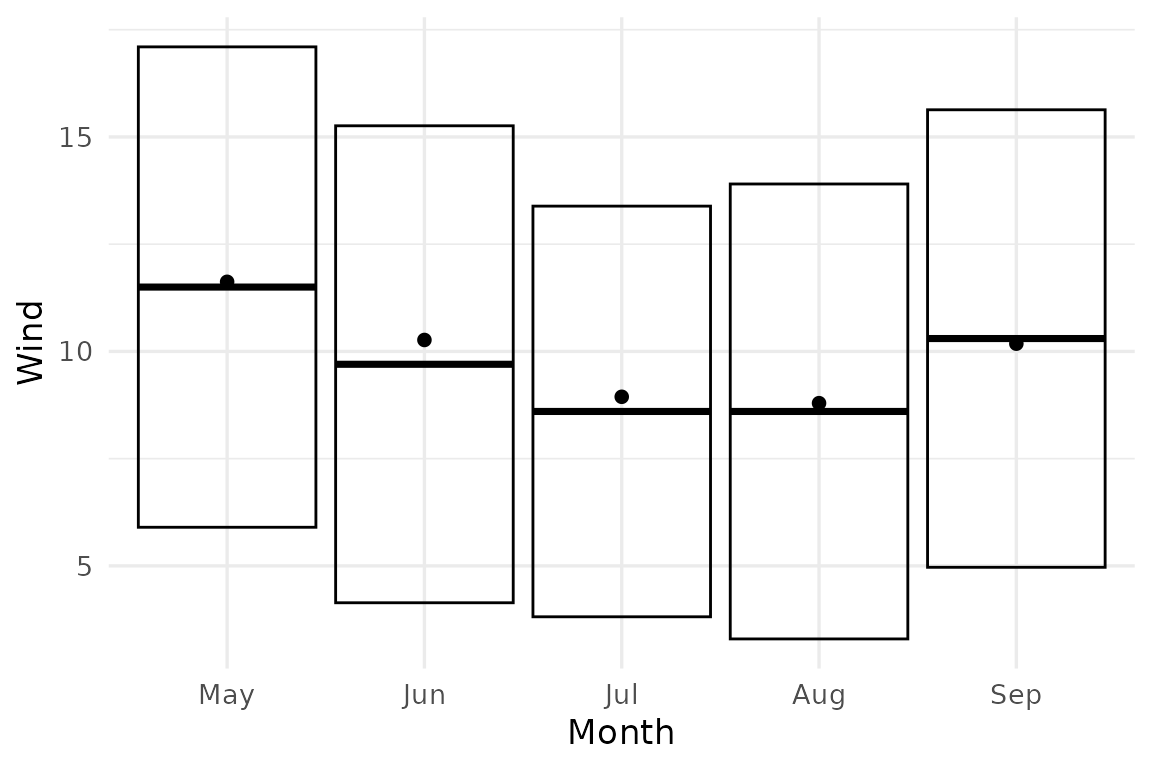
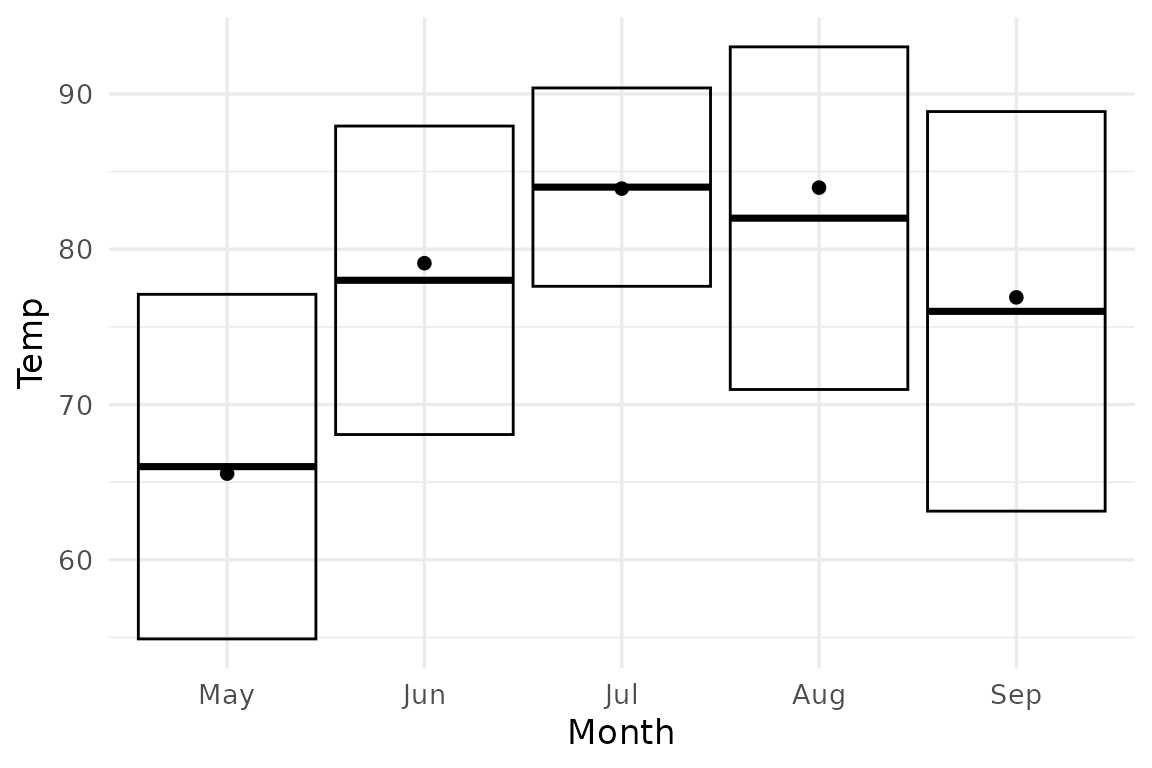
Deploying to gh-pages from @ iamYannC/ggerror@91dc286999c0aad0b7f42e428c635d0acdb28276 🚀

diff --git a/articles/use-cases.html b/articles/use-cases.html
@@ -242,7 +242,7 @@ example, to multiply the error by 2, you’d write
 <details><summary>
 Passing <code>scale_by = 2</code> to <code>stat_error</code>
 </summary><div class="sourceCode" id="cb8"><pre class="downlit sourceCode r">
-<code class="sourceCode R"><span><span class="fu"><a href="https://ggplot2.tidyverse.org/reference/ggplot.html" class="external-link">ggplot</a></span><span class="op">(</span><span class="va">airq</span>, <span class="fu"><a href="https://ggplot2.tidyverse.org/reference/aes.html" class="external-link">aes</a></span><span class="op">(</span><span class="va">Month</span>, <span class="va">Wind</span><span class="op">)</span><span class="op">)</span> <span class="op">+</span></span>
+<code class="sourceCode R"><span><span class="fu"><a href="https://ggplot2.tidyverse.org/reference/ggplot.html" class="external-link">ggplot</a></span><span class="op">(</span><span class="va">airq</span>, <span class="fu"><a href="https://ggplot2.tidyverse.org/reference/aes.html" class="external-link">aes</a></span><span class="op">(</span><span class="va">Month</span>, <span class="va">Temp</span><span class="op">)</span><span class="op">)</span> <span class="op">+</span></span>
 <span>  <span class="fu"><a href="../reference/stat_error.html">stat_error</a></span><span class="op">(</span>fun <span class="op">=</span> <span class="va">mae_summary</span>, scale_by <span class="op">=</span> <span class="fl">2</span>, error_geom <span class="op">=</span> <span class="st">"crossbar"</span><span class="op">)</span> <span class="op">+</span></span>
 <span>  <span class="fu"><a href="https://ggplot2.tidyverse.org/reference/stat_summary.html" class="external-link">stat_summary</a></span><span class="op">(</span>geom <span class="op">=</span> <span class="st">"point"</span><span class="op">)</span></span></code></pre></div>
 <p><img src="use-cases_files/figure-html/aditional-code-collapsed-1.png" class="r-plt" alt="" width="576"></p>

diff --git a/articles/use-cases.md b/articles/use-cases.md
@@ -182,7 +182,7 @@ you’d write `stat_error(fun = mae_summary, scale_by = 2)`.
 Passing `scale_by = 2` to `stat_error`
 
 ``` r
-ggplot(airq, aes(Month, Wind)) +
+ggplot(airq, aes(Month, Temp)) +
   stat_error(fun = mae_summary, scale_by = 2, error_geom = "crossbar") +
   stat_summary(geom = "point")
 ```
